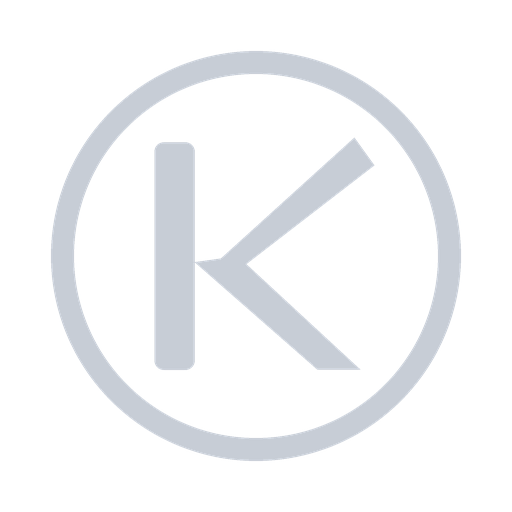
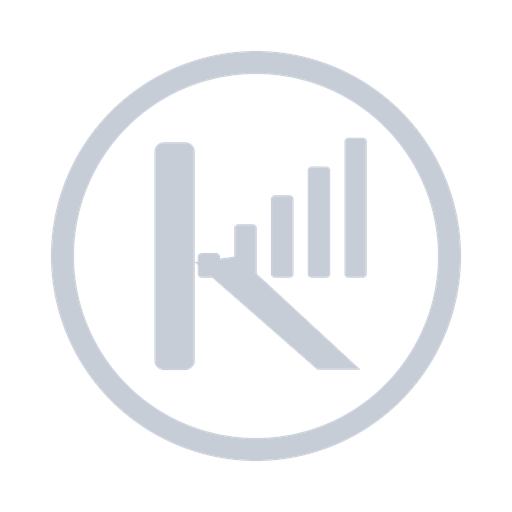
ISI-5779: round 3.2c — ramp-up as ascending graph-bar chart (board feedback)
Henrik: make the ramp-up line a graph bar. Reworked the K's upper arm into 5
ascending glowing bars (throughput chart) forming the ramp, across all signal
directions; stem+leg silver, bars glow accent. Updated kl_signal.py (_bar_rects
+ _draw_rampK), kl_signal_svg.py (bar rects + feGaussianBlur glow), board copy
round-3.2c. Flagged 16px favicon caveat (ship 3-bar variant for final).

Changed region(s): [[0.375, 0.25, 0.75, 0.5625]]

diff --git a/brand/knightload/kl_signal.py b/brand/knightload/kl_signal.py
@@ -140,23 +140,49 @@ def _pl(frac, lx, ly, W):
     return (o + lx * tile, o + ly * tile)
 
 
+# ramp-up rendered as an ASCENDING GRAPH BAR CHART (board feedback): the K's
+# upper arm becomes 5 bars climbing up-right on a common baseline (throughput ramp).
+RK_BARS_N = 5
+RK_BARS_X0 = 0.31
+RK_BARS_W = 0.072
+RK_BARS_BASE = 0.57
+RK_BARS_TOP_HI, RK_BARS_TOP_LO = 0.49, 0.115  # shortest -> tallest top-y
+
+
+def _bar_rects(frac, W):
+    step = (0.86 - RK_BARS_X0 - RK_BARS_W) / (RK_BARS_N - 1)
+    rects = []
+    for i in range(RK_BARS_N):
+        t = i / (RK_BARS_N - 1)
+        bx = RK_BARS_X0 + i * step
+        top = RK_BARS_TOP_HI + (RK_BARS_TOP_LO - RK_BARS_TOP_HI) * t
+        x0, y0 = _pl(frac, bx, top, W)
+        x1, y1 = _pl(frac, bx + RK_BARS_W, RK_BARS_BASE, W)
+        rects.append((x0, y0, x1, y1))
+    return rects
+
+
 def _draw_rampK(img, W, frac, base, ramp, draw_ramp=True, glow_col=None):
-    """Draw the two-tone Ramp-K. stem+leg in `base`, ascending ramp in `ramp`
-    (optionally with a soft glow). Returns (junction_px, tip_px)."""
+    """Draw the two-tone Ramp-K. stem+leg in `base`; the ascending ramp is a
+    GRAPH BAR CHART in `ramp` (optional glow). Returns (junction_px, tip_px)."""
     d = ImageDraw.Draw(img)
     x0, y0 = _pl(frac, RK_STEM[0], RK_STEM[1], W)
     x1, y1 = _pl(frac, RK_STEM[2], RK_STEM[3], W)
     d.rounded_rectangle([x0, y0, x1, y1], radius=0.03 * frac * W, fill=base + (255,))
     d.polygon([_pl(frac, p[0], p[1], W) for p in RK_LEG], fill=base + (255,))
-    ramp_px = [_pl(frac, p[0], p[1], W) for p in RK_RAMP]
     if draw_ramp:
+        rects = _bar_rects(frac, W)
+        rad = 0.012 * frac * W
         if glow_col is not None:
             gl = Image.new("RGBA", (W, W), (0, 0, 0, 0))
-            ImageDraw.Draw(gl).polygon(ramp_px, fill=glow_col + (150,))
-            gl = gl.filter(ImageFilter.GaussianBlur(radius=int(W * 0.018)))
+            gd = ImageDraw.Draw(gl)
+            for r in rects:
+                gd.rounded_rectangle(list(r), radius=rad, fill=glow_col + (150,))
+            gl = gl.filter(ImageFilter.GaussianBlur(radius=int(W * 0.016)))
             img.alpha_composite(gl)
             d = ImageDraw.Draw(img)
-        d.polygon(ramp_px, fill=ramp + (255,))
+        for r in rects:
+            d.rounded_rectangle(list(r), radius=rad, fill=ramp + (255,))
     return _pl(frac, *RK_JUNCTION, W), _pl(frac, *RK_TIP, W)
 
 

diff --git a/brand/knightload/kl_signal_svg.py b/brand/knightload/kl_signal_svg.py
@@ -15,9 +15,27 @@ NIGHT_TOP, NIGHT_BOT = "#14162A", "#22305A"
 
 RK_STEM = (0.17, 0.13, 0.30, 0.87)
 RK_LEG = [(0.30, 0.52), (0.70, 0.87), (0.84, 0.87), (0.44, 0.50)]
-RK_RAMP = [(0.345, 0.545), (0.82, 0.115), (0.885, 0.205), (0.405, 0.575)]
 JUNCTION = (0.375, 0.56)
 TIP = (0.85, 0.16)
+# ramp-up = ascending graph-bar chart (board feedback)
+RK_BARS_N = 5
+RK_BARS_X0 = 0.31
+RK_BARS_W = 0.072
+RK_BARS_BASE = 0.57
+RK_BARS_TOP_HI, RK_BARS_TOP_LO = 0.49, 0.115
+
+
+def _bar_rects(frac):
+    step = (0.86 - RK_BARS_X0 - RK_BARS_W) / (RK_BARS_N - 1)
+    out = []
+    for i in range(RK_BARS_N):
+        t = i / (RK_BARS_N - 1)
+        bx = RK_BARS_X0 + i * step
+        top = RK_BARS_TOP_HI + (RK_BARS_TOP_LO - RK_BARS_TOP_HI) * t
+        x0, y0 = _map(frac, bx, top)
+        x1, y1 = _map(frac, bx + RK_BARS_W, RK_BARS_BASE)
+        out.append((x0, y0, x1 - x0, y1 - y0))
+    return out
 
 
 def _map(frac, lx, ly):
@@ -37,10 +55,15 @@ def k_shapes(frac, base, ramp, draw_ramp=True, glow=False):
            f'rx="{0.03*tile:.1f}" fill="{base}"/>']
     out.append(f'<polygon points="{_polystr([_map(frac,*p) for p in RK_LEG])}" fill="{base}"/>')
     if draw_ramp:
-        rp = _polystr([_map(frac, *p) for p in RK_RAMP])
+        bars = _bar_rects(frac)
+        rad = 0.012 * tile
+        def bar(x, y, w, h, extra=""):
+            return (f'<rect x="{x:.1f}" y="{y:.1f}" width="{w:.1f}" height="{h:.1f}" '
+                    f'rx="{rad:.1f}" fill="{ramp}" {extra}/>')
         if glow:
-            out.append(f'<polygon points="{rp}" fill="{ramp}" filter="url(#glow)" opacity="0.6"/>')
-        out.append(f'<polygon points="{rp}" fill="{ramp}"/>')
+            out.append('<g filter="url(#glow)" opacity="0.6">'
+                       + "".join(bar(*b) for b in bars) + '</g>')
+        out.extend(bar(*b) for b in bars)
     return "".join(out)
 
 

diff --git a/brand/knightload/kl_signal_render.py b/brand/knightload/kl_signal_render.py
@@ -14,13 +14,13 @@ INDIGO0, INDIGO1, INDIGO2 = k.INDIGO0, k.INDIGO1, k.INDIGO2
 
 DIRS = [
     ("1", "Signal Circle", s.sig_circle,
-     "Night roundel; the K's ascending ramp-up glows as the signal + a slim rising shaft.", False),
+     "Night roundel; the K's ramp-up is an ascending graph-bar chart that glows as the signal.", False),
     ("2", "Signal Diamond", s.sig_diamond,
-     "Night lozenge with a glowing edge; the K's ramp-up fires as the lit signal inside (beam / plot-point / badge).", True),
+     "Night lozenge, glowing edge; the K's ramp-up is a glowing graph-bar chart — the lit signal inside.", True),
     ("3", "Signal Minimal", s.sig_minimal,
-     "Circle + K, thin monochrome stroke. The signal reduced to essence — 16px-proof.", False),
+     "Circle + K with the graph-bar ramp, monochrome. The signal reduced to essence — 16px-proof.", False),
     ("4", "Signal K-Ray", s.sig_kray,
-     "The K's ascending ramp continues out as a projector beam escaping the lozenge — load curve + signal.", False),
+     "Alt 'ray' take: the K's ramp fires out as a projector beam escaping the lozenge — load curve + signal.", False),
 ]
 
 
@@ -63,7 +63,7 @@ def board():
     d = ImageDraw.Draw(img)
     d.text((60, 44), "KNIGHTLOAD", font=k.font(58, bold=True), fill=SILVER + (255,))
     k.tracked_text(d, (62, 116),
-                   "THE  LOAD-SIGNAL  ·  round 3.2b  ·  the K's ramp-up IS the signal (glows at night)  ·  pick one",
+                   "THE  LOAD-SIGNAL  ·  round 3.2c  ·  the K's ramp-up is a glowing graph-bar chart  ·  pick one",
                    k.font(23, bold=True), CYAN + (255,), tracking=2)
     d.line([60, 162, W - 60, 162], fill=INDIGO2 + (255,), width=3)
     colw = (W - 120) // 4
